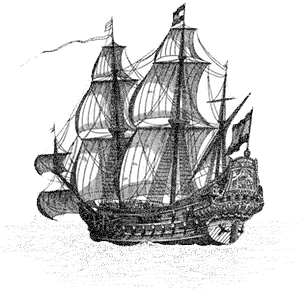
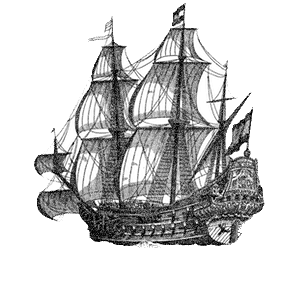
1

diff --git a/Entries/entry8/entry8.html b/Entries/entry8/entry8.html
@@ -75,7 +75,7 @@ document.body.addEventListener('click', () => {
                 ship.style.animation = `moveShip 22s ease-in-out forwards ${i * 2}s`; 
             }
             audio.ontimeupdate = function () {
-                if (audio.currentTime >= 22) {
+                if (audio.currentTime >= 25) {
                     const ships = document.querySelectorAll(".ship");
                     ships.forEach((ship) => {
                         ship.style.animationPlayState = 'paused';

diff --git a/Entries/entry8/asset/entry8.css b/Entries/entry8/asset/entry8.css
@@ -64,7 +64,7 @@
             opacity: 1;
         }
         100% {
-            left: 50%;
+            left: 40%;
             top: 20%;
             opacity: 1;
         }
